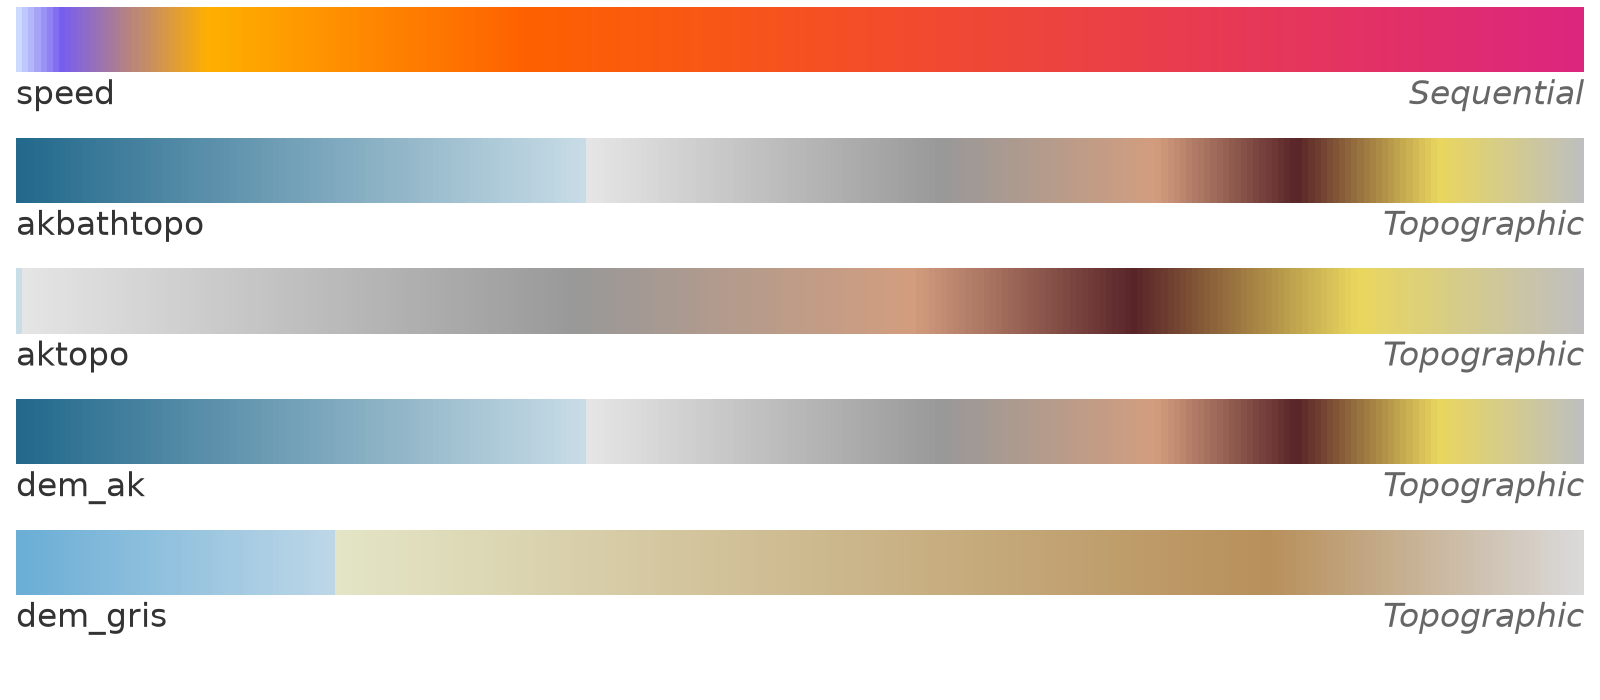
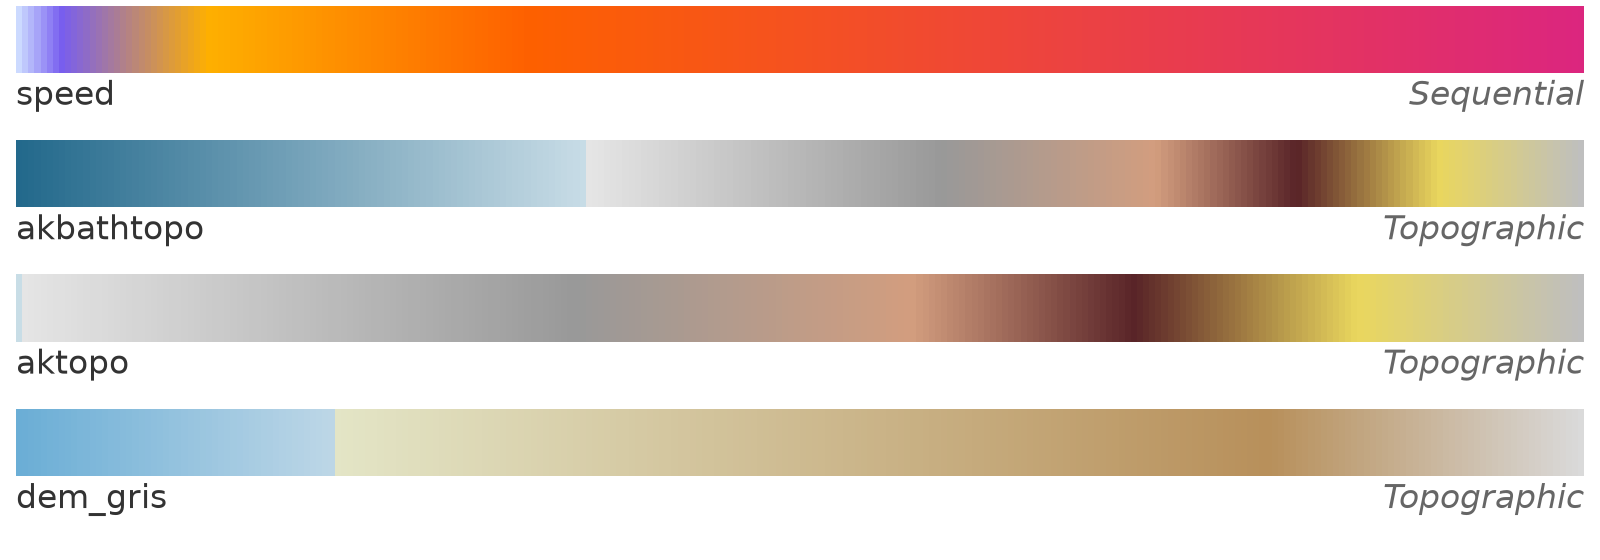
Drop dem_ak in favor of akbathtopo
The two were identical. The README now lists akbathtopo and aktopo.

diff --git a/cmglaciology/cm.py b/cmglaciology/cm.py
@@ -15,7 +15,6 @@ _cmap_names_sequential = ("speed",)
 _cmap_names_topographic = (
     "akbathtopo",
     "aktopo",
-    "dem_ak",
     "dem_gris",
 )
 

diff --git a/README.md b/README.md
@@ -4,11 +4,12 @@ Colormaps for glaciology, packaged for Matplotlib.
 
 ![colormaps](cmglaciology/colormaps.png)
 
-| Name       | Type        | Intended use                         |
-| ---------- | ----------- | ------------------------------------ |
-| `speed`    | Sequential  | Ice surface speed                    |
-| `dem_ak`   | Topographic | Surface/bed elevation, Alaska        |
-| `dem_gris` | Topographic | Surface/bed elevation, Greenland     |
+| Name         | Type        | Intended use                               |
+| ------------ | ----------- | ------------------------------------------ |
+| `speed`      | Sequential  | Ice surface speed                          |
+| `akbathtopo` | Topographic | Bathymetry and surface elevation, Alaska   |
+| `aktopo`     | Topographic | Surface elevation (land only), Alaska      |
+| `dem_gris`   | Topographic | Surface/bed elevation, Greenland           |
 
 ## Install
 
@@ -75,11 +76,12 @@ are not evenly spaced. The stops are (data value → position in the colormap
 is linear between the first and last value):
 
 - `speed`: 10, 30, 100, 250, 750 (m/yr)
-- `dem_ak`: -2000, 0, 1, 1250, 2000, 2500, 3000, 3500 (m)
+- `akbathtopo`: -2000, 0, 1, 1250, 2000, 2500, 3000, 3500 (m)
+- `aktopo`: 0, 1, 1250, 2000, 2500, 3000, 3500 (m)
 - `dem_gris`: -500, 0, 1, 1500, 2000 (m)
 
 To reproduce the QGIS rendering, use `vmin`/`vmax` equal to the first and last
-stop. The `dem_*` maps have a sharp break at sea level (0–1 m).
+stop. The topographic maps have a sharp break at sea level (0–1 m).
 
 ## Adding a colormap
 
